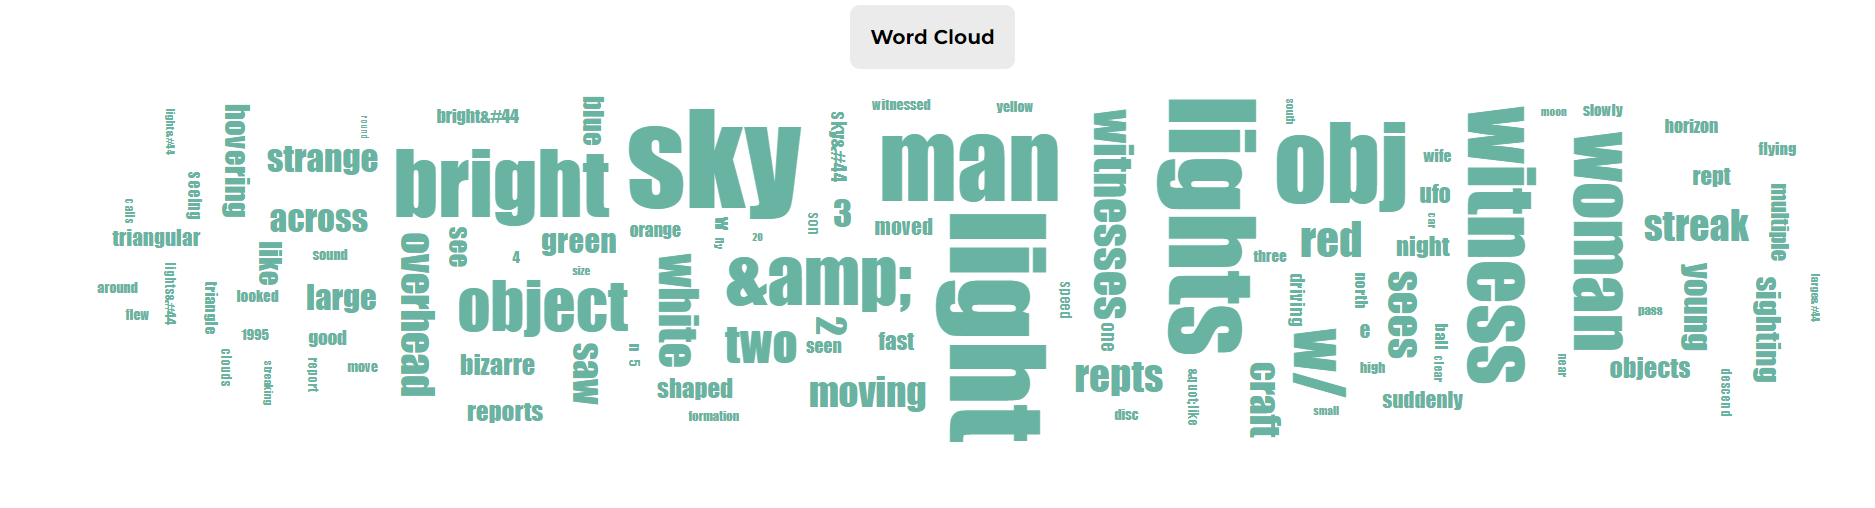
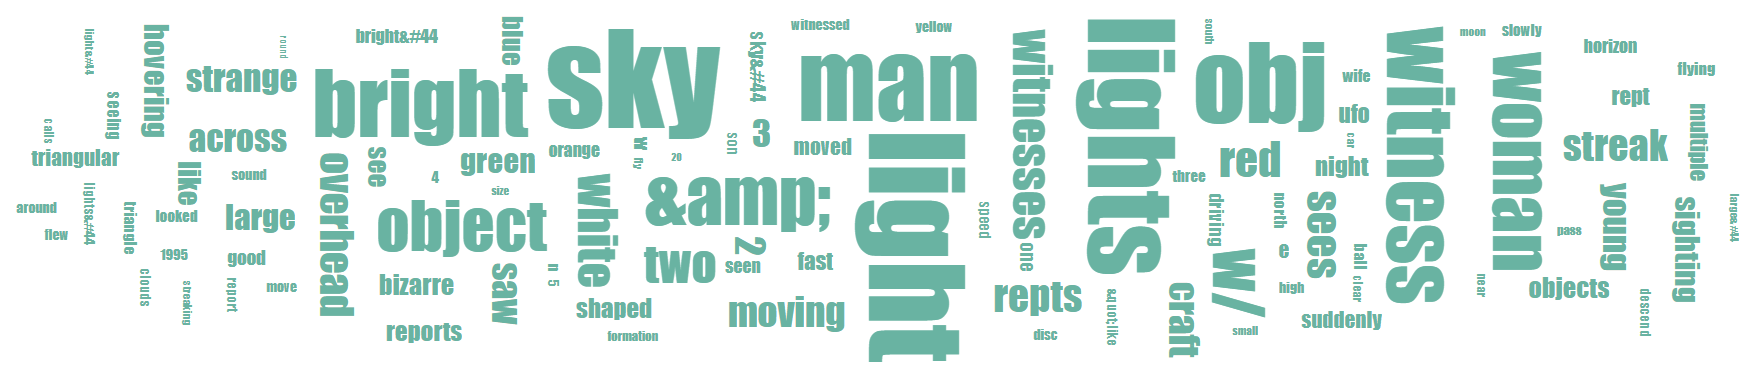
Documentation

diff --git a/documentation.html b/documentation.html
@@ -147,6 +147,8 @@
                </div>
                <div class="vis-view">
                   <h4>Word Cloud</h4>
+                  <img src="./images/visualComponents/WordCloud.png"/>
+                  <p>This word cloud visualizes the top 100 most common words in the various UFO report descriptions. The cloud will update as users make various filtering selections in the map, bar graph, and/or timeline</p>
                </div>
             </div>
          </details>
@@ -381,6 +383,9 @@
                   the project. Ex. If someone worked on the data, and on bar
                   charts, list their effort on these components.
                </i>
+               <p><b>Devin Harris</b>:</p>
+               <p><b>Kody Penn</b>:</p>
+               <p><b>Alex Yang</b>: Word Cloud</p>
             </div>
          </details>
       </section>

diff --git a/css/documentation.css b/css/documentation.css
@@ -26,6 +26,11 @@ summary {
 
 .vis-view {
    margin: 1em 0;
+   
+   img {
+      width: 100%;
+      margin: 0 auto;
+   }
 }
 
 .code-structure {
